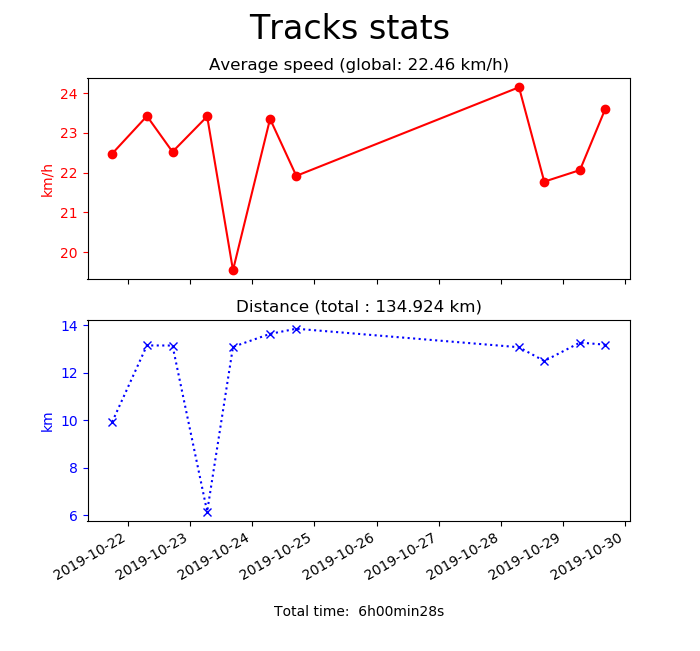
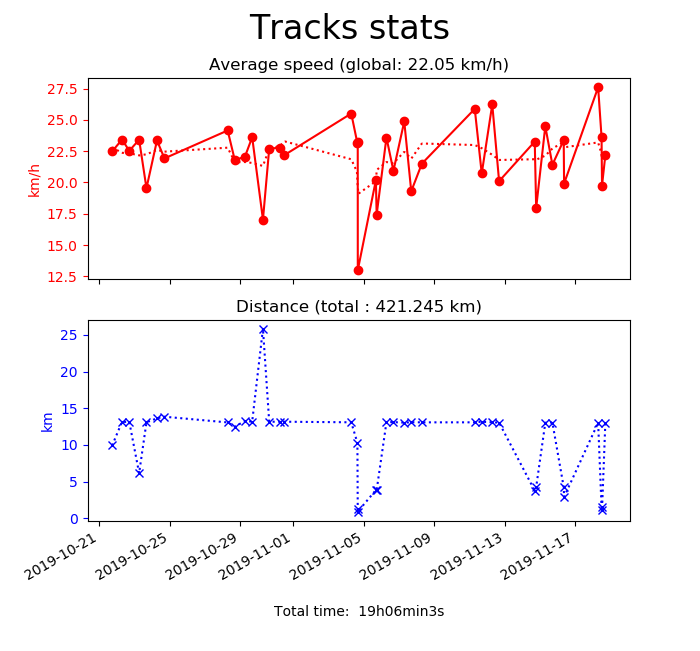
Smoothed average speed added, README updated.

diff --git a/bikeometer.py b/bikeometer.py
@@ -1,8 +1,9 @@
 import argparse
-from datetime import datetime
+from datetime import datetime, timedelta
 import matplotlib.pyplot as plt
 import matplotlib.dates as mdates
 import numpy as np
+from scipy.interpolate import interp1d
 import sqlite3
 import sys
 
@@ -85,6 +86,15 @@ def print_content(conn):
     for row in rows:
         print(row)
 
+def smooth(x, window_length=9):
+    xs = np.zeros((len(x) + 2 * (window_length // 2)))
+    xs[ window_length // 2 : -(window_length // 2) ] = x
+    xs[:window_length // 2] = x[0]
+    xs[-(window_length // 2 + 1):] = x[-1]
+    for i in range(x.shape[0]):
+        xs[window_length // 2 + i] = xs[i : i + window_length + 1].mean()
+    return xs[ window_length // 2 : -(window_length // 2) ]
+
 # Read from tables
 conn = sqlite3.connect(args.file)
 if args.verbose:
@@ -95,6 +105,16 @@ distances_km = get_distances_km(conn)
 timestamps = get_start_timestamps(conn)
 max_speed_kmh = get_max_speed_kmh(conn)
 total_kcal = get_total_kcal(conn)
+
+# Smooth average speeds
+avg_speeds_kmh_smoothed = smooth(avg_speeds_kmh, len(timestamps)//8)
+t0 = timestamps[0]
+t1 = timestamps[-1]
+timestamps_resampled = [ t0 + timedelta(seconds=x) for x in range(0, int((t1 - t0).total_seconds()), 3600)]
+datetime2time = lambda ts: [ (x - datetime(1970,1,1)).total_seconds() for x in ts ]
+f_interp = interp1d(datetime2time(timestamps), avg_speeds_kmh_smoothed, kind='slinear')
+avg_speeds_kmh_resampled = f_interp(datetime2time(timestamps_resampled))
+
 
 # Compute some stats
 total_dist_km = 0
@@ -117,7 +137,7 @@ print(f'Average power: {power:.2f} W.')
 
 # Plot results
 fig, ax = plt.subplots(2,1, figsize=(7,6.5))
-ax[0].plot(timestamps, avg_speeds_kmh, 'r-o')
+ax[0].plot(timestamps, avg_speeds_kmh, 'r-o', timestamps_resampled, avg_speeds_kmh_resampled, 'r:')
 ax[0].set_ylabel('km/h', color='r')
 ax[0].tick_params('y', colors='r')
 ax[0].set_title(f'Average speed (global: {global_average_speed_kmh:.2f} km/h)')

diff --git a/README.md b/README.md
@@ -8,12 +8,31 @@ The data is obtained from the exported tracks.bk file. As of 2019/10/30, Bikeome
 - Time and avgSpeed are interverted in the track_details_table
 - The last exported track only contains _id, date and start_timestamp
 
+## Command line arguments
+
+```
+> python bikeometer.py --help
+usage: bikeometer.py [-h] [-v] [-f FILE]
+
+Plot statistics from Bikeometer exported file.
+
+optional arguments:
+  -h, --help            show this help message and exit
+  -v, --verbose         Print table contents.
+  -f FILE, --file FILE  Bikeometer exported file.
+```
+
 ## Example results
 
 ```
 > python bikeometer.py
-Removing track 15 because average speed is 0.
-Total distance: 134.924 km. Total time: 6h00min28s. Global average speed: 22.46 km/h.
+Removing track 50 because average speed is 0.
+Total distance: 421.245 km.
+Total time: 19h06min3s.
+Global average speed: 22.05 km/h.
+Max speed: 41.78 km/h.
+Total kcal: 4079.89 kcal.
+Average power: 248.25 W.
 ```
 
 ![alt text](example.png "Output example")
